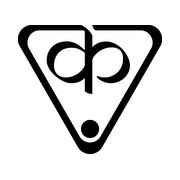
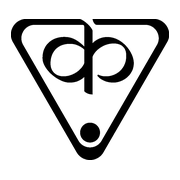
fix(brand): tab uses the emblem PNG, not a full filled square.

Changed region(s): [[0.0556, 0.0833, 0.9444, 0.8889], [0.6389, 0.3889, 0.6667, 0.4167]]

diff --git a/app/layout.tsx b/app/layout.tsx
@@ -43,10 +43,7 @@ export const metadata: Metadata = {
     description: "Notes, NCERT solutions and practice tests for CBSE Classes 6 to 12.",
   },
   icons: {
-    icon: [
-      { url: "/brand/virtualkaksha-icon-32.png", sizes: "32x32", type: "image/png" },
-      { url: "/icon.png", type: "image/png" },
-    ],
+    icon: [{ url: "/brand/virtualkaksha-icon-32.png", sizes: "32x32", type: "image/png" }],
     apple: "/apple-touch-icon.png",
     shortcut: "/brand/virtualkaksha-icon-32.png",
   },

diff --git a/app/manifest.ts b/app/manifest.ts
@@ -11,7 +11,6 @@ export default function manifest(): MetadataRoute.Manifest {
     icons: [
       { src: "/brand/virtualkaksha-icon-32.png", sizes: "32x32", type: "image/png" },
       { src: "/brand/virtualkaksha-icon-192.png", sizes: "192x192", type: "image/png" },
-      { src: "/icon.png", sizes: "512x512", type: "image/png" },
     ],
   };
 }
